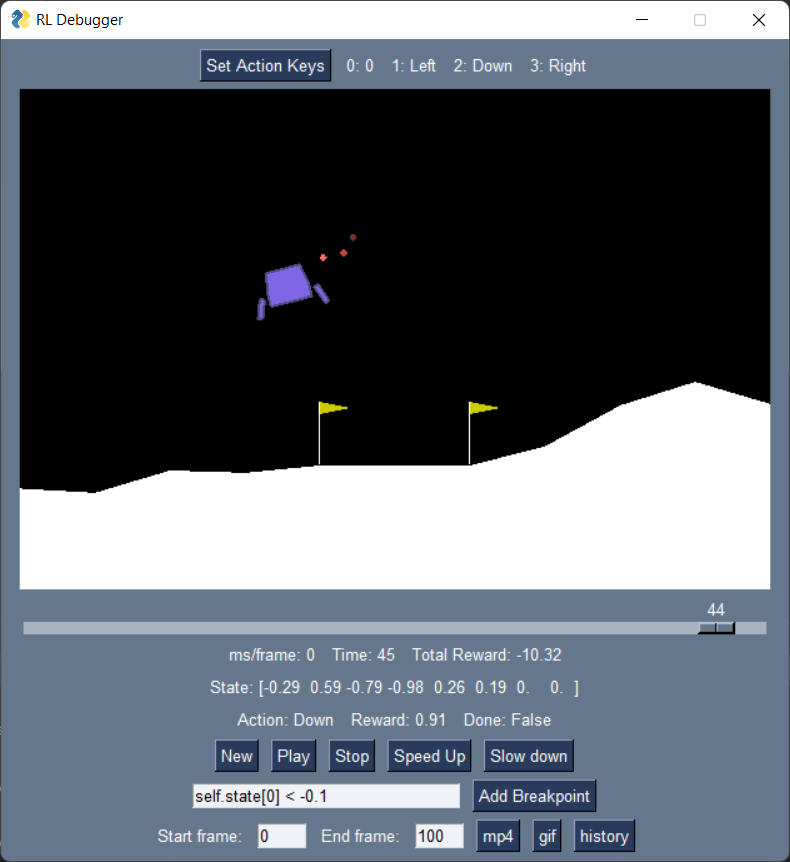
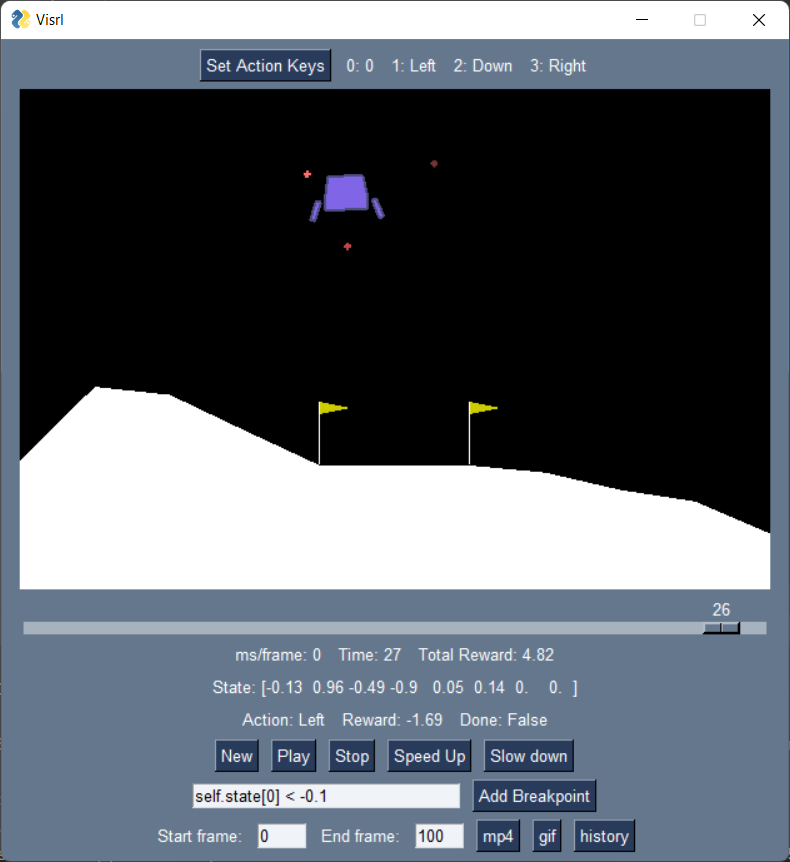
Update readme

diff --git a/setup.py b/setup.py
@@ -5,7 +5,7 @@ this_directory = Path(__file__).parent
 long_description = (this_directory / "README.md").read_text()
 setup(
     name='visrl',
-    version='0.1.5',
+    version='0.1.7',
     description="A simple wrapper to analyse and visualise reinforcement learning agents' behaviour in the environment.",
     long_description=long_description,
     long_description_content_type='text/markdown',

diff --git a/visrl/visrl.py b/visrl/visrl.py
@@ -44,7 +44,7 @@ class Visrl:
              sg.Button("gif", key='gif'),
              sg.Button("history", key='history')],
         ]
-        self.window = sg.Window("RL Debugger", layout,
+        self.window = sg.Window("Visrl", layout,
                    return_keyboard_events=True,
                    use_default_focus=False,
                     element_justification='c')
